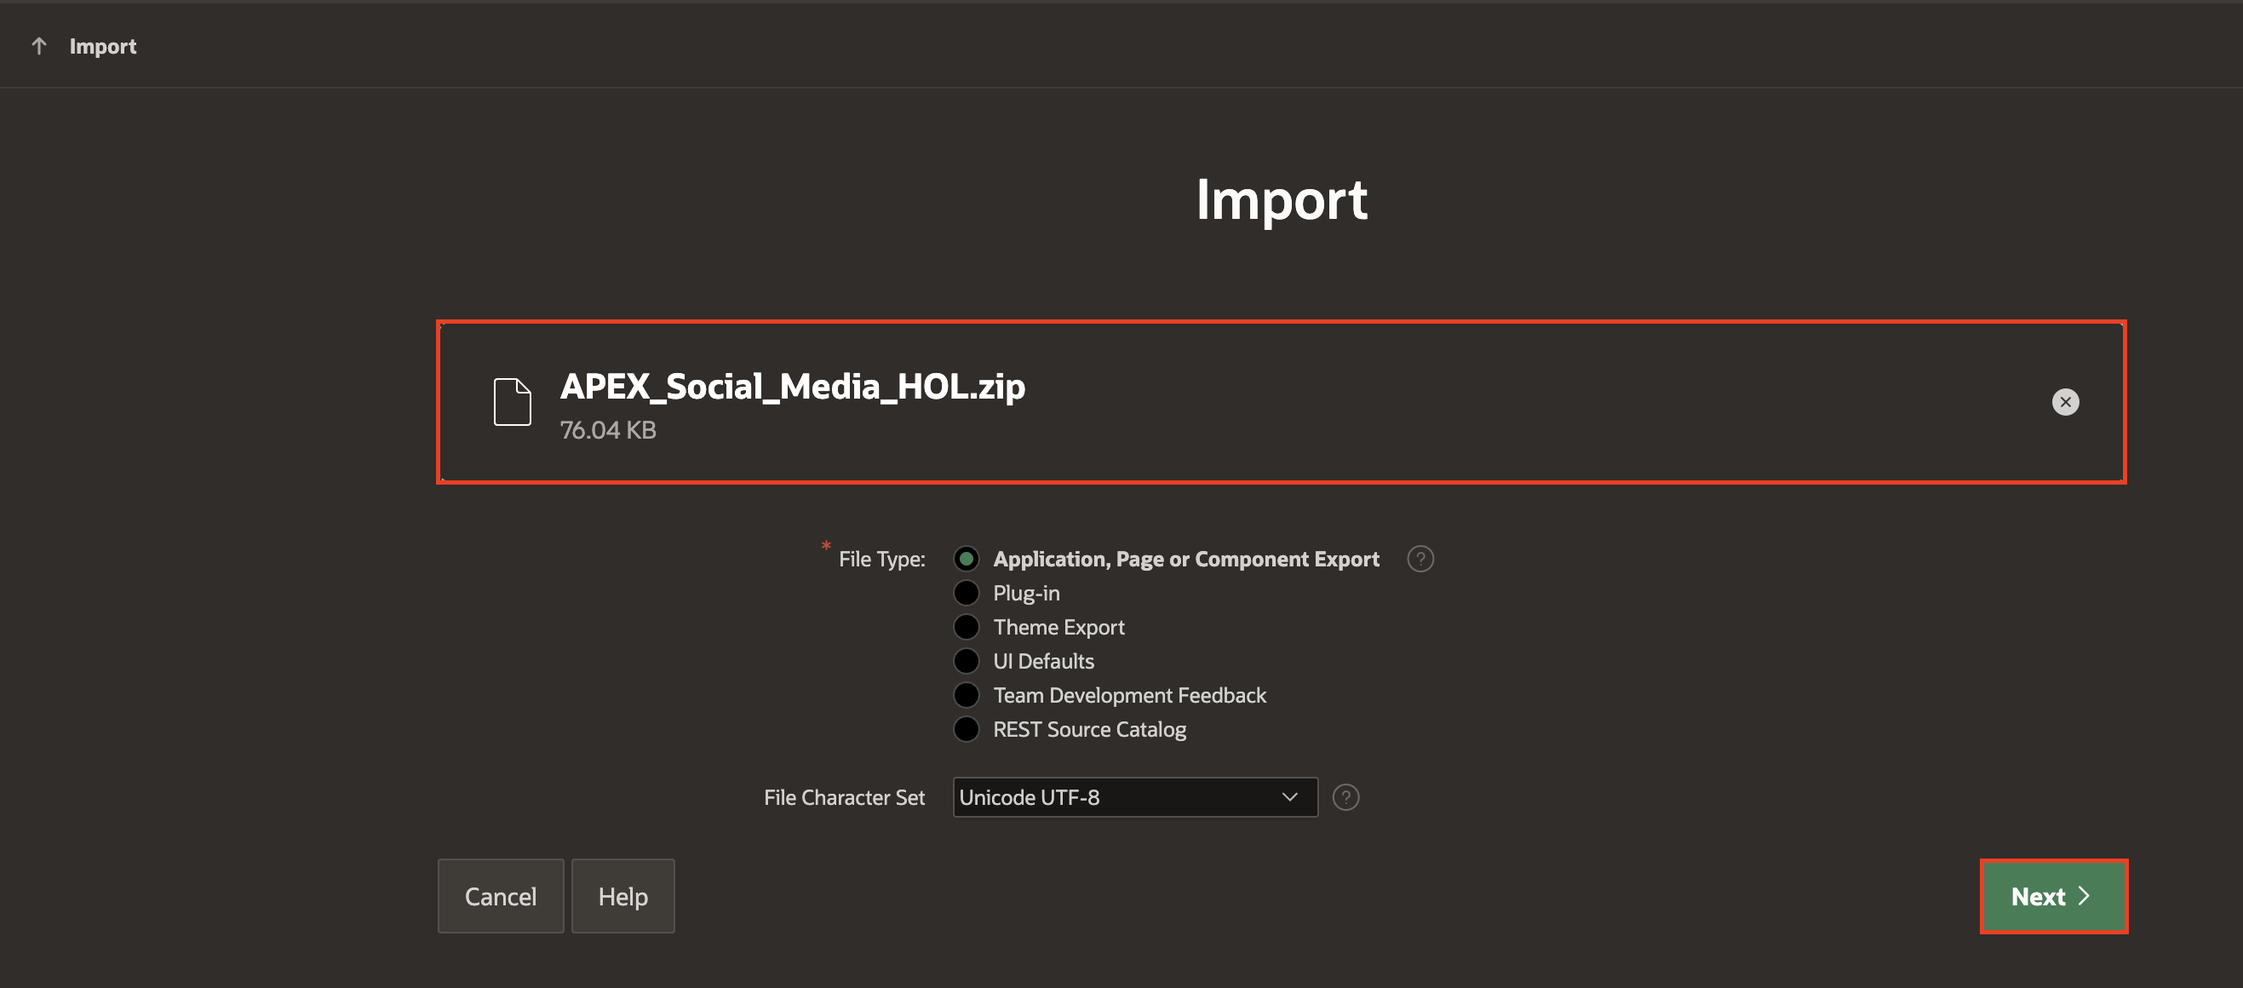
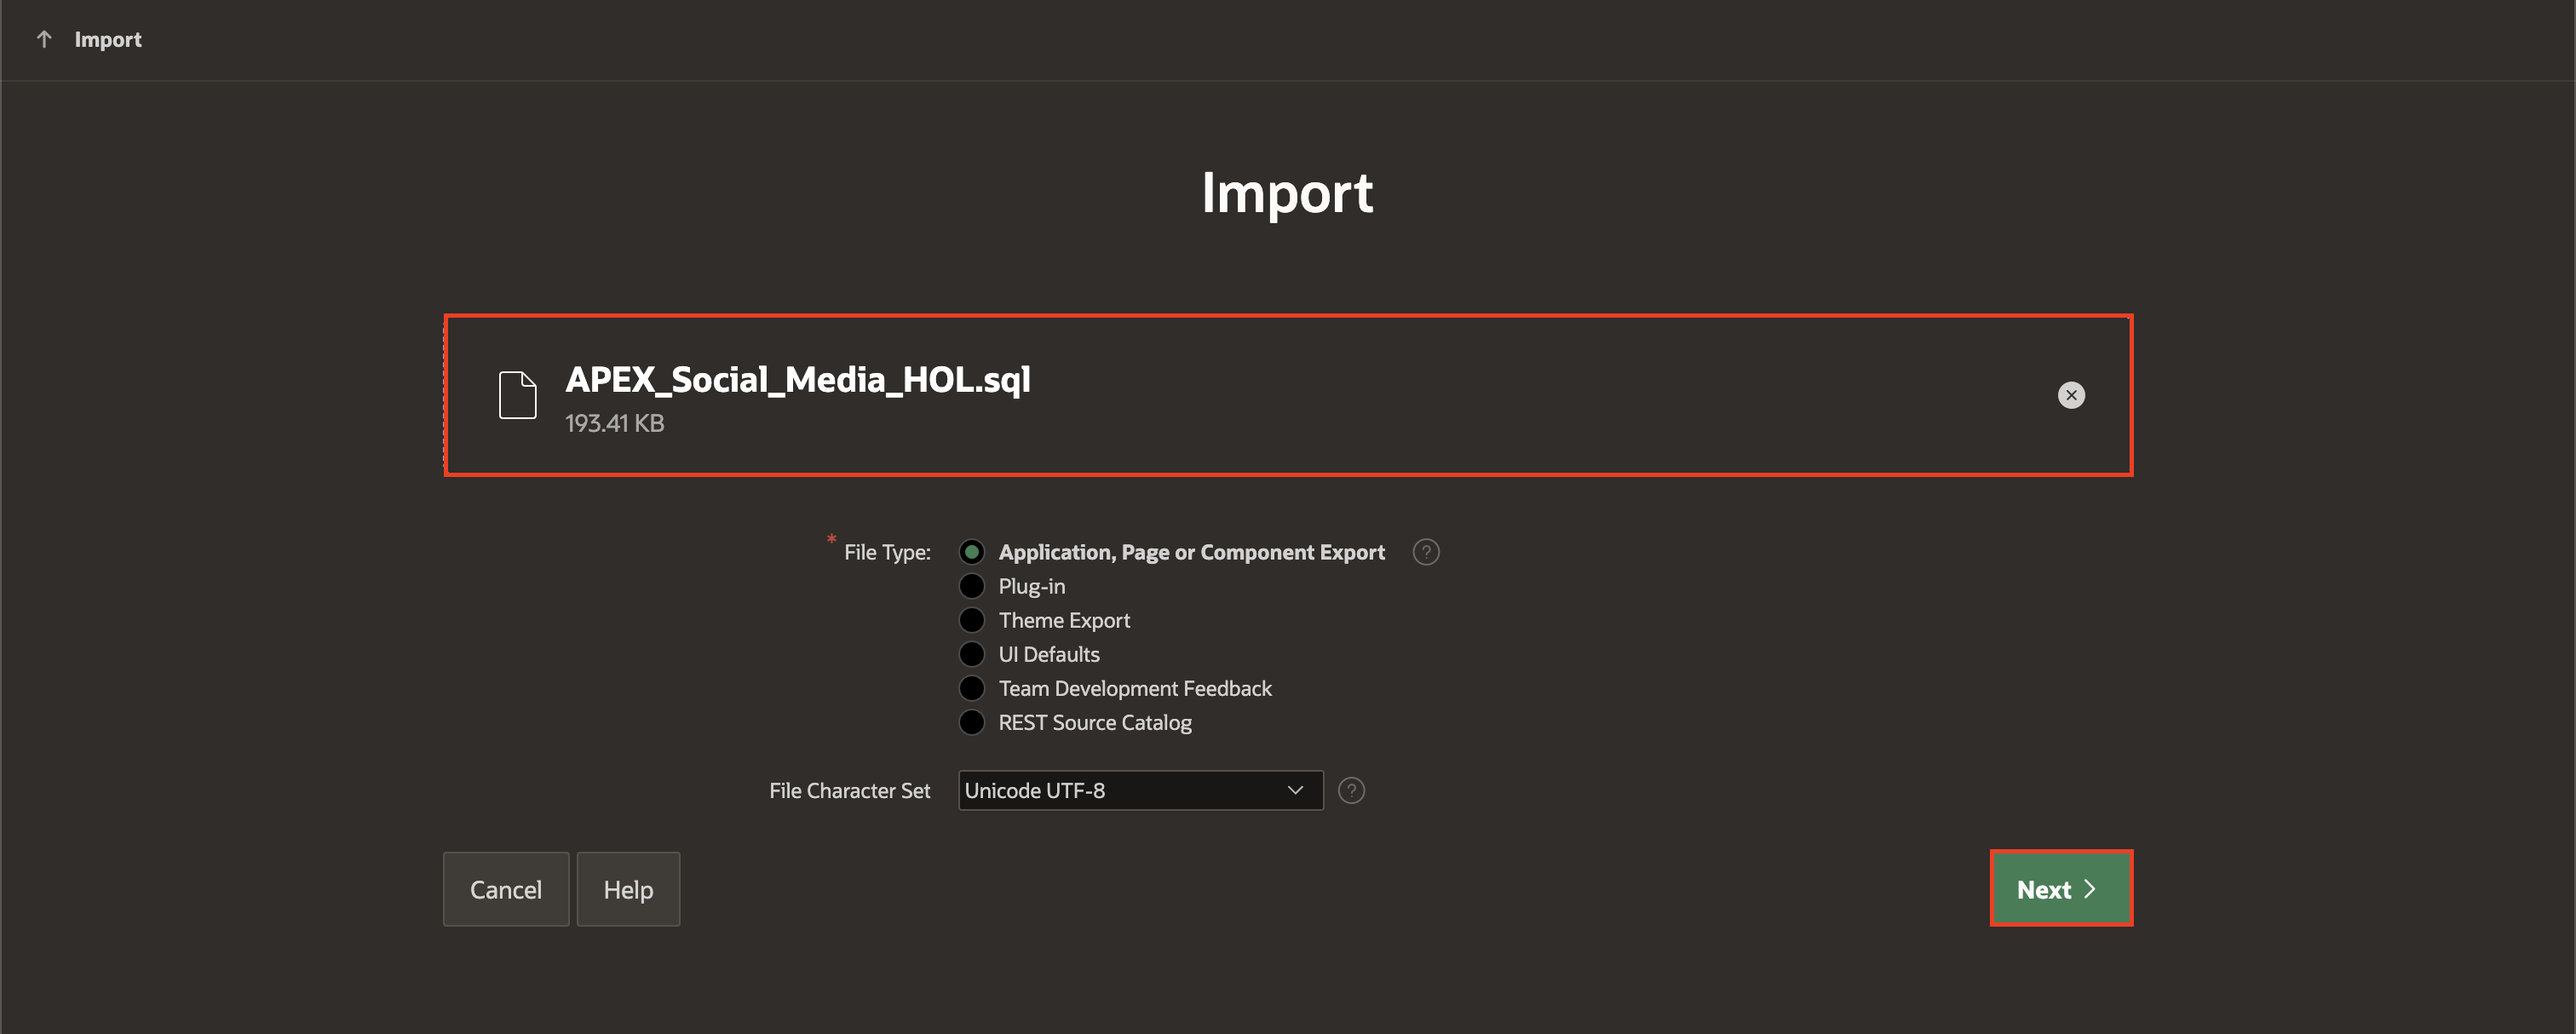
img embedding

diff --git a/image-semantic-search/2-import-app/2-import-app.md b/image-semantic-search/2-import-app/2-import-app.md
@@ -4,7 +4,7 @@
 
 In this lab, you will import the Social Media application into your APEX workspace. This imported application will serve as the foundation for subsequent labs.
 
-You can download the Social Media Application [here](https://c4u04.objectstorage.us-ashburn-1.oci.customer-oci.com/p/EcTjWk2IuZPZeNnD_fYMcgUhdNDIDA6rt9gaFj_WZMiL7VvxPBNMY60837hu5hga/n/c4u04/b/livelabsfiles/o/APEX_Social_Media_HOL.zip).
+You can download the Social Media Application [here](https://c4u04.objectstorage.us-ashburn-1.oci.customer-oci.com/p/EcTjWk2IuZPZeNnD_fYMcgUhdNDIDA6rt9gaFj_WZMiL7VvxPBNMY60837hu5hga/n/c4u04/b/livelabsfiles/o/labfiles/APEX_Social_Media_HOL.sql).
 
 Estimated Time: 5 Minutes
 
@@ -20,7 +20,7 @@ In this lab, you:
 
     ![Click Import](images/import0.png " ")
 
-2. The Import dialog displays. Drag and drop, or navigate to the file. (Click [here](https://c4u04.objectstorage.us-ashburn-1.oci.customer-oci.com/p/EcTjWk2IuZPZeNnD_fYMcgUhdNDIDA6rt9gaFj_WZMiL7VvxPBNMY60837hu5hga/n/c4u04/b/livelabsfiles/o/APEX_Social_Media_HOL.zip) to download the application.)
+2. The Import dialog displays. Drag and drop, or navigate to the file. (Click [here](https://c4u04.objectstorage.us-ashburn-1.oci.customer-oci.com/p/EcTjWk2IuZPZeNnD_fYMcgUhdNDIDA6rt9gaFj_WZMiL7VvxPBNMY60837hu5hga/n/c4u04/b/livelabsfiles/o/labfiles/APEX_Social_Media_HOL.sql) to download the application.)
 
     Click **Next**.
 

diff --git a/image-semantic-search/intro/introduction.md b/image-semantic-search/intro/introduction.md
@@ -41,9 +41,18 @@ If you are stuck or the App is not working as expected, you can download and ins
 2. Import the **Image\_semantic\_search.sql** file into your workspace. Follow the steps in the Install Application wizard to install the app along with the Supporting Objects.
 
 3. Once the application is installed,
-    - Follow Lab 1 to generate API keys using the OCI Console, grant database privileges and create credentials in the app.
+    - Follow **Lab 1** to load the ONNX Models to your database.
 
-    - Proceed to Lab 3 to export the ONNX model using the OML4Py client. Upload the exported model to Object Storage and use a Pre-Authenticated Request (PAR) URL to load the model into the database. (You can skip this step if you have your own multi modal model loaded in the database.)
+    - Proceed to **App Builder homepage**, navigate to **Workspace Utilities > Vector Providers > CLIP TEXT MODEL**. In the Vector Provider Details page, select the following:
+
+        - Under Local Embedding:
+
+            - ONNX Model Owner: **-Select your schema-**
+            - ONNX Model Name: **CLIP\_TXT\_MODEL**
+
+        Click **Apply Changes**
+
+    ![Correct ONNC Model Owner Page item](images/vector_providers.png " ")
 
 4. All set. Now, run the application and see it in action!
 
